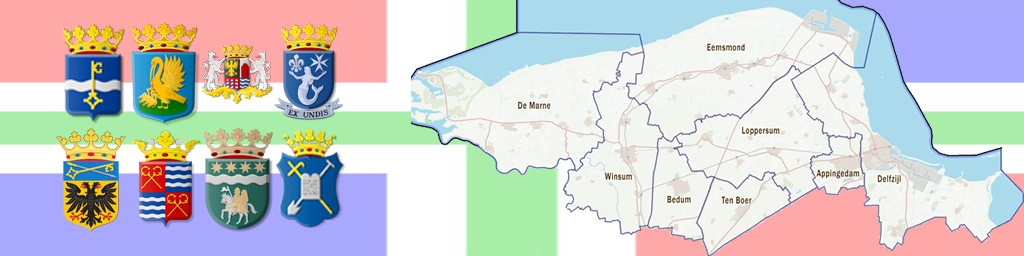
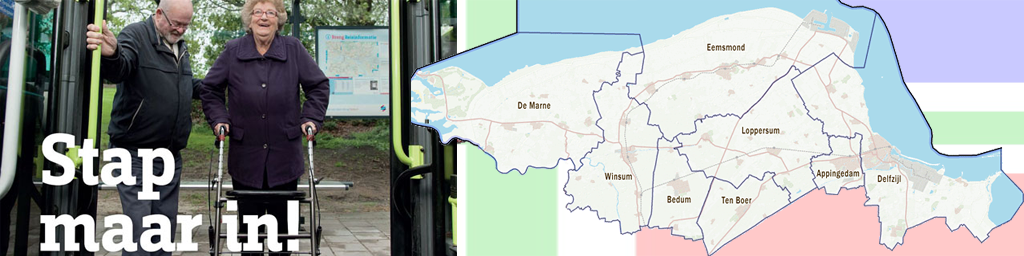
foto header veranderd

diff --git a/question.html b/question.html
@@ -1,0 +1,51 @@
+<!DOCTYPE html>
+<html xmlns="http://www.w3.org/1999/xhtml">
+    <head>
+        <meta charset="utf-8">
+            <meta http-equiv="X-UA-Compatible" content="IE=edge,chrome=1">
+                <title>Mobiliteit Noord Groningen</title>
+                <link rel="stylesheet" type="text/css" href="style.css" />
+                <script src="lib/jquery.min.js"></script>
+                <script src="lib/toegankelijkheid.js"></script>
+                </head>
+                <body>
+                    <div id="container">
+                        <div id="menu" class="menuPlanNormal"> <img src="images/contrast.png" alt="Wijzig contrast"/>
+                            <div id="textSize">
+                                <a href="#" class="fontSizePlus">A+</a> | <a href="#" class="fontSizeMinus">A-</a>
+                            </div>
+                            <ul>
+                                <li>
+                                    <a href="index.html">Home</a>
+                                </li>
+                                <li>
+                                    <a href="waarom-ov.html">Waarom OV</a>
+                                </li>
+                                <li>
+                                    <a href="contact.php" >Contact</a>
+                                </li>
+                            </ul>
+                        </div>
+                        <div id="slogan" class="footerSloganNormal">Reis met het openbaar vervoer!</div>
+                        <div id="header"></div>
+                        <div id="plan" class="menuPlanNormal">Plan uw reis!</div>
+                        <div id="question" class="textNormal">
+                            <form>
+                                <label>Ik heb een auto</label><br>
+                                <Input type = 'Radio' Name ='wAuto' value= 'wLopen'>en in staat meer dan 800 meter te lopen of fietsen</input><br>
+                                <Input type = 'Radio' Name ='wAuto' value= 'nLopen'>ben niet in staat te lopen of te fietsen</input><br><br>
+
+
+
+                                <label>Ik heb geen auto</label><br>
+                                <Input type = 'Radio' Name ='gAuto' value= 'wLopen'>en in staat meer dan 800 meter te lopen of fietsen</input><br>
+                                <Input type = 'Radio' Name ='gAuto' value= 'nLopen'>ben niet in staat te lopen of te fietsen</input><br>
+
+                                <input id="submit" name="submit" type="submit" value="Submit"/>
+
+                            </form>
+                        </div>
+                        <div id="footer" class="footerSloganNormal">&copy; 2014 - by INF2D</div>
+                    </div>
+                </body>
+</html>

diff --git a/style.css b/style.css
@@ -86,6 +86,14 @@ body
     vertical-align: middle;
     padding-top: 3px;
 }
+#question 
+{
+    background-color:#FFF;
+    min-height: 300px;
+    height: 100%;
+    text-align: center;
+    padding-top: 20px;
+}
 #content 
 {
     background-color:#FFF;
